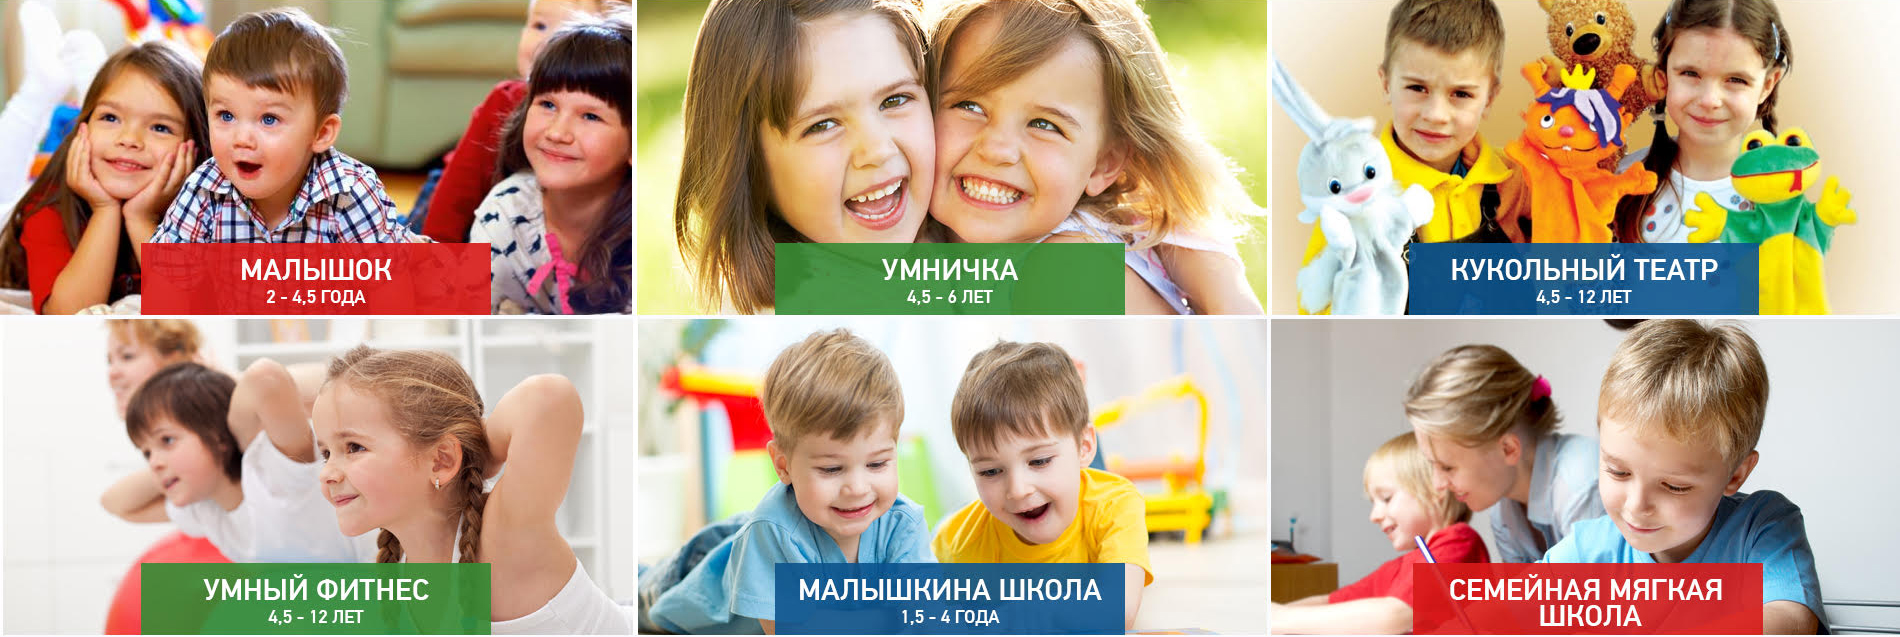
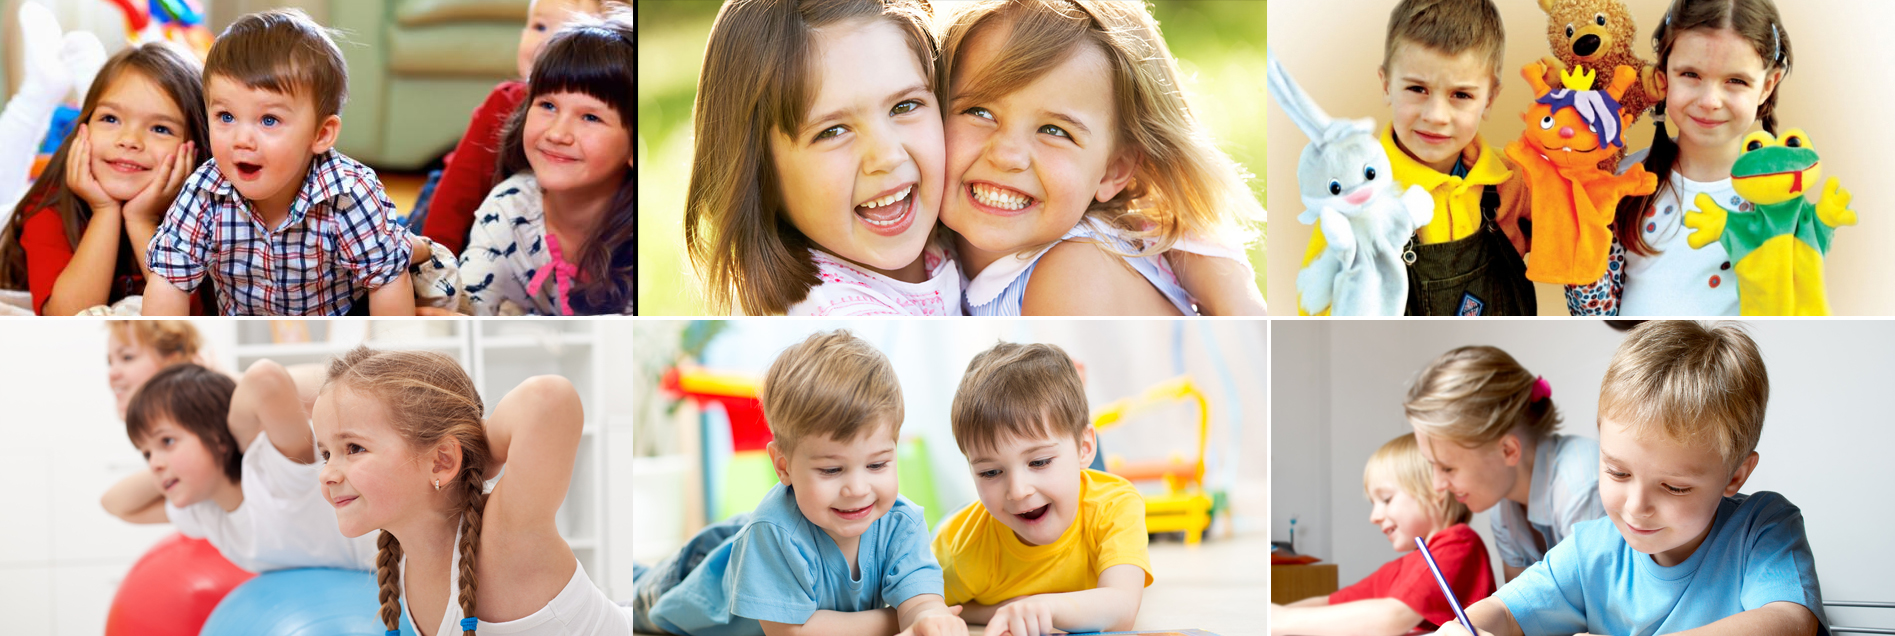
block our-programms, bg for everyone

diff --git a/scss/style.scss b/scss/style.scss
@@ -6,10 +6,14 @@
 @import 'main';
 
 .wr {
-    max-width: 1150px;
+    max-width: 1100px;
     min-width: 320px;
     padding: 0 20px;
     margin: 0 auto;
+
+    &-2 {
+        max-width: 1900px;
+    }
 }
 
 header {
@@ -137,8 +141,8 @@ header {
             }
 
             li {
-                color: $white;
-                margin-right: 62px;
+                color: #ffffff;
+                margin: 0 50px 0 0;
                 position: relative;
                 display: inline-block;
                 list-style-image: url(../img/disc.png);
@@ -162,7 +166,7 @@ header {
                 }
 
                 &:first-child {
-                    margin-left: 20px;
+                    margin-left: 15px;
                 }
 
                 &:last-child {
@@ -326,12 +330,11 @@ main {
                 font-size: 16px;
                 color: $grey-7;
                 font-weight: 600;
-                margin-bottom: 5px;
                 text-transform: capitalize;
             }
 
             .first, .last {
-                font-size: 12px;
+                font-size: 13px;
                 line-height: 18px;
                 color: $grey-5_1;
             }
@@ -362,7 +365,7 @@ main {
                 position: relative;
                 width: 255px;
                 height: 480px;
-                margin-right: 20px;
+                margin-right: 13px;
                 float: left;
                 background-color: grey;
                 background-repeat: no-repeat;
@@ -533,19 +536,19 @@ main {
             }
 
             .submit {
-                width: 230px;
+                width: 260px;
                 padding: 15px 25px;
                 background-color: #0099ff;
                 color: #ffffff;
                 display: inline-block;
                 margin-right: 30px;
-                font-size: 14px;
+                font-size: 16px;
                 text-transform: uppercase;
             }
 
             p {
                 display: inline-block;
-                font-size: 13px;
+                font-size: 14px;
                 width: 650px;
                 vertical-align: sub;
                 color: $white;
@@ -568,8 +571,8 @@ main {
             }
 
             h2 {
-                font-size: 20px;
-                color: $grey-7;
+                font-size: 24px;
+                color: #333;
                 margin-bottom: 15px;
 
                 span {
@@ -583,7 +586,7 @@ main {
             strong {
                 position: relative;
                 text-transform: uppercase;
-                font-size: 25px;
+                font-size: 30px;
                 display: inline-block;
                 font-weight: 600;
                 margin-bottom: 70px;
@@ -605,17 +608,13 @@ main {
         .block {
             &-1, &-2, &-3, &-4 {
                 & {
-                    padding: 15px 30px 25px 30px;
+                    padding: 15px 25px 25px 25px;
                     width: 22.5%;
                     position: relative;
                     height: 275px;
                     float: left;
-                    margin-left: 2.5%;
+                    margin-left: 3.3%;
                     box-shadow: 1px 2px 5px #888;
-                }
-
-                &:last-child {
-                    margin-right: 0;
                 }
 
                 address, p, .message, a {
@@ -628,11 +627,11 @@ main {
 
                 time {
                     color: $grey-3_1;
-                    font-size: 11px;
+                    font-size: 12px;
 
                     span {
                         color: $grey-7;
-                        font-size: 11px;
+                        font-size: 12px;
                     }
                 }
 
@@ -701,14 +700,18 @@ main {
                     bottom: 21px;
                 }
             }
+
+            &-1 {
+                margin-left: 0;
+            }
         }
 
         .readAll {
-            font-size: 14px;
+            font-size: 12px;
             font-weight: 600;
             color: #333;
             text-transform: uppercase;
-            margin-left: 43%;
+            margin-left: 42%;
             margin-top: 50px;
             text-decoration: none;
             display: inline-block;
@@ -727,6 +730,7 @@ main {
 
     .programms {
         width: 100%;
+        float: left;
         position: relative;
         padding-bottom: 50px;
         background: linear-gradient(to top, #e3e3e5, #f5f6f8);
@@ -779,7 +783,7 @@ main {
             color: #333;
             text-transform: uppercase;
             bottom: 17px;
-            left: 45%;
+            left: 41.5%;
             text-decoration: none;
             position: absolute;
 
@@ -794,12 +798,82 @@ main {
             }
         }
 
-        .bg-prog {
-            width: 100%;
-            height: 425px;
-            background-image: url(../img/bg-prog.jpg);
-            background-repeat: no-repeat;
-            background-size: cover;
+        //.bg-prog {
+        //    width: 100%;
+        //    height: 425px;
+        //    background-image: url(../img/bg-prog.jpg);
+        //    background-repeat: no-repeat;
+        //    background-size: cover;
+        //}
+
+        .prog {
+            &-1,
+            &-2,
+            &-3,
+            &-4,
+            &-5,
+            &-6 {
+                & {
+                    width: 33%;
+                    height: 315px;
+                    float: left;
+                    position: relative;
+                    text-align: center;
+                    background-image: url(../img/bg-prog-1.jpg);
+                    background-repeat: no-repeat;
+                    background-size: cover;
+                }
+
+                a {
+                    background-color: rgba(255, 0, 0, 0.7);
+                    position: absolute;
+                    bottom: 0;
+                    left: 24.5%;
+                    height: 22%;
+                    width: 50%;
+                    line-height: 220%;
+                }
+            }
+
+            &-2 {
+                background-image: url(../img/bg-prog-2.jpg);
+
+                a {
+                    background-color: rgba(0, 128, 0, 0.7);
+                }
+            }
+
+            &-3 {
+                background-image: url(../img/bg-prog-3.jpg);
+
+                a {
+                    background-color: rgba(0, 0, 255, 0.7);
+                }
+            }
+
+            &-4 {
+                background-image: url(../img/bg-prog-4.jpg);
+
+                a {
+                    background-color: rgba(0, 128, 0, 0.7);
+                }
+            }
+
+            &-5 {
+                background-image: url(../img/bg-prog-5.jpg);
+
+                a {
+                    background-color: rgba(0, 0, 255, 0.7);
+                }
+            }
+
+            &-6 {
+                background-image: url(../img/bg-prog-6.jpg);
+
+                a {
+                    background-color: rgba(255, 0, 0, 0.7);
+                }
+            }
         }
     }
 }
@@ -813,6 +887,7 @@ footer {
         background-repeat: no-repeat;
         background-size: cover;
         background-position: 0 0;
+        clear: both;
     }
 
     * {
@@ -871,10 +946,15 @@ footer {
             float: left;
 
             a {
+                transition: all.5s ease;
                 font-size: 12px;
                 text-transform: lowercase;
                 text-decoration: none;
                 border-bottom: 1px dashed $white;
+
+                &:hover {
+                    border-bottom: 1px dashed transparent;
+                }
             }
         }
 

diff --git a/index.html b/index.html
@@ -83,23 +83,11 @@
                 <strong>Основные виды деятельности центра</strong>
                 <h3>Православный центр развития "Отрада и Утешение"</h3>
                 <p class="first">
-                    Lorem ipsum dolor sit amet, consectetur adipisicing elit. Ab, ad architecto autem officiis<a
-                        href="#">"perferendis"</a> perspiciatis praesentium quas quidem quisquam quod rerum similique <a
-                        href="#">"sunt"</a> ut vel. Alias aliquam aliquid amet beatae, corporis delectus eligendi <a
-                        href="#">"fuga"</a> - impedit ipsam nam praesentium provident quasi sint temporibus , illo
-                    laborum modi placeat saepe. Ab accusamus amet at atque beatae blanditiis esse excepturi fuga, harum
-                    laudantium nulla odit quas quo quos repellendus. Debitis deserunt dolores incidunt, nobis porro
-                    recusandae. Accusamus blanditiis corporis ea, eius error esse exercitationem explicabo, id in libero
-                    nostrum quae tempora ullam. Ad eaque earum enim, et in itaque pariatur ratione reiciendis rem
-                    repudiandae? Corporis deleniti doloremque dolorum eligendi esse est ex excepturi expedita facilis
-                    fuga, illo ipsa maiores maxime mollitia nihil nulla perspiciatis, porro praesen
+                    создан при Воскресной школе Храма Рождества Пресвятой Богородицы в Крылатском с благословения настоятеля Храма протоирея Георгия Бреева и под руководством директора Воскресной школы иерея Андрея Шишкина.  Изначально наш Центр создавался как центр психологической помощи прихожанам Храма - в центре вели прием православные психологи. Постепенно стали появляться группы для детей разных возрастов: <a href="#">“Кукольный театр”</a> (коррекционный), <a href="#">“Малышок"</a> – для самых маленьких, <a href="#">“Умничка”</a> - подготовка к школе, <a href="#">“Мастерская кукол”</a>- для тех, кто любит рукоделие, «Православный год: От Рождества до Пасхи», подростковая группа “Мастерство общения”.  В помощь родителям работает  «Клуб для родителей подростков». Для тех, кто заинтересовался историей семьи - возник цикл занятий «Предания рода». А теперь в нашем центре можно провести и досуг - в киноклубе. В ближайшее время ждем открытия клуба современных бабушек:)
                 </p>
                 <h4>Сегодня наш Центр - место встреч прихожан Храма всех возрастов.</h4>
                 <p class="last">
-
-                    Lorem ipsum dolor sit amet, consectetur adipisicing elit. Lorem ipsum dolor sit amet, consectetur
-                    adipisicing elit. Accusantium aliquam amet blanditiis consectetur culpa cumque debitis deserunt
-                    doloremque dolores ducimus exercitationem facilis incidunt labore l
+                    У нас можно получить помощь православного психолога, участвовать в развивающих программах для детей, получить знания о воспитании ребенка, понимать его и уверенно обащаться с ним! Приходите в наш центр, мы будем рады видеть Вас!
                 </p>
             </div>
             <div class="block">
@@ -215,10 +203,40 @@
 
     <!-- ПЕРЕДЕЛАТЬ! -->
     <section class="programms">
-        <div class="wr">
+        <div class="wr-2">
             <div class="title">
                 <h2><span>"</span>Программы, пользующиеся особой популярностью у наших друзей</h2>
                 <strong>Популярные программы</strong>
+            </div>
+            <div class="prog-1">
+                <a href="#">
+                    Малышок <p>2 - 4,5 года</p>
+                </a>
+            </div>
+            <div class="prog-2">
+                <a href="#">
+                    Умничка <p>4,5 - 6 лет</p>
+                </a>
+            </div>
+            <div class="prog-3">
+                <a href="#">
+                    Кукольный театр <p>4,5 - 12 лет</p>
+                </a>
+            </div>
+            <div class="prog-4">
+                <a href="#">
+                    Умный фитнес <p>4,5 - 12 лет</p>
+                </a>
+            </div>
+            <div class="prog-5">
+                <a href="#">
+                    Малышкина школа <p>1,5 - 4 года</p>
+                </a>
+            </div>
+            <div class="prog-6">
+                <a href="#">
+                    Семейнаям мягка школа
+                </a>
             </div>
             <a href="#" class="watchAll">Смотреть все прогаммы<span class="arr"></span></a>
         </div>
